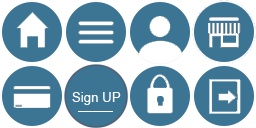
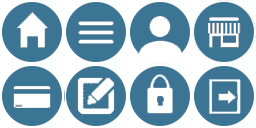
pdf fix

Changed region(s): [[0.25, 0.5, 0.5, 1.0]]

diff --git a/web/view/theme/spg/assets/spg-theme.css b/web/view/theme/spg/assets/spg-theme.css
@@ -104,19 +104,10 @@ body.spg-theme .site-welcome-text {
 
 /** Sub Menu **/
 
-body.spg-theme .submenu-icon {
-    background: url(img/submenu_icons.png) -48px 0 no-repeat;
-    width: 16px;
-    height: 16px;
-    display: inline-block;
-    padding: 0 0;
-    margin: 3px 0 0 3px;
-    float: left;
-    margin-right: 0.5em;
-}
-body.spg-theme .submenu-icon.submenu-icon-list { background-position: -16px 0; } 
-body.spg-theme .submenu-icon.submenu-icon-edit { background-position: -32px 0; } 
-body.spg-theme .submenu-icon.submenu-icon-view { background-position: -48px 0; } 
+body.spg-theme .submenu-icon {/*     background: url(img/submenu_icons.png) -48px 0 no-repeat; */background: url(img/nav_icons.png) 0 0 no-repeat;background-position: top left;background-size: 128px 64px;width: 32px;height: 32px;margin: -4px 6px 0 0px;float: left;}
+body.spg-theme .submenu-icon.submenu-icon-list { background-position: -32px 0; } 
+body.spg-theme .submenu-icon.submenu-icon-edit {background-position: -96px 0;} 
+body.spg-theme .submenu-icon.submenu-icon-view { background-position: -64px 0; } 
 
 
 
@@ -167,6 +158,7 @@ body.layout-vertical.spg-theme .bread-crumbs {
 body.spg-theme nav.page-menu {
     float: left;
     margin: 0em 0.5em 1em 0.1em;
+    /* max-width: 206px; */
 }
 
 body.layout-vertical.spg-theme nav.page-menu {
@@ -266,6 +258,17 @@ body.spg-theme input.button-submit {
 
 body.spg-theme a.button {
     text-decoration: none;
+    padding: 1em;
+    margin: 0 0 0.3em 0;
+    display: block;
+    color: #666;
+    font-size: larger;
+    border-radius: 0.6em;
+    /*     text-align: right; */
+}
+
+body.spg-theme a.button {
+/*     text-decoration: none;
     padding: 0.5em;
     margin: 0 0 0.3em 0;
     display: block;
@@ -281,7 +284,7 @@ body.spg-theme a.button {
     border-bottom: 1px solid #adabab;
     border-left: 1px solid #CCCCCC;
     box-shadow: 2px 2px 4px #CCC;
-    font-size: larger;
+    font-size: larger; */
     /* background-image: url(img/bk/a.button.png); */
 }
 
@@ -290,13 +293,13 @@ body.spg-theme a.button.small {
     font-size: small;
 }
 body.spg-theme a.button.current {
-    background-color: #d4e7ec;
+    background-color: #3b7593;
     font-weight: bold;
-    color: #000000;
+    color: #DDD;
 }
 body.spg-theme a.button:hover {
-    background-color: #bcc5d1;
-    color: #ffffff;
+    background-color: #d4e7ec;
+    /* color: #ffffff; */
 }
 body.spg-theme a.button[disabled] {
     color: gray;

diff --git a/web/user/view/.delete.php b/web/user/view/.delete.php
@@ -18,7 +18,7 @@ $action_url = '/user/index.php?id=' . $User->getID() . '&action=';
             <a href="<?php echo $action_url; ?>delete" class="button current">Delete User<div class="submenu-icon submenu-icon-delete"></div></a>
         <?php } else { ?>
             <a href="user/account.php" class="button">My Account <div class="submenu-icon submenu-icon-view"></div></a>
-            <a href="user/account.php?action=edit" class="button">Edit <div class="submenu-icon submenu-icon-account"></div></a>
+            <a href="user/account.php?action=edit" class="button">Edit <div class="submenu-icon submenu-icon-edit"></div></a>
         <?php } ?>
 
         <a href="order?" class="button">Transactions <div class="submenu-icon submenu-icon-list"></div></a>

diff --git a/web/user/view/.view.php b/web/user/view/.view.php
@@ -25,7 +25,7 @@ $action_url = 'user?id=' . $User->getID() . '&action=';
                 <a href="transaction/charge.php" class="button">Charge<div class="submenu-icon submenu-icon-charge"></div></a>
             <?php } ?>
             <a href="user/account.php" class="button current">My Account <div class="submenu-icon submenu-icon-view"></div></a>
-            <a href="user/account.php?action=edit" class="button">Edit Account <div class="submenu-icon submenu-icon-account"></div></a>
+            <a href="user/account.php?action=edit" class="button">Edit Account <div class="submenu-icon submenu-icon-edit"></div></a>
         <?php } ?>
 
         <?php if($SessionUser->hasAuthority('ROLE_ADMIN')) { ?>

diff --git a/web/transaction/view/.charge.php b/web/transaction/view/.charge.php
@@ -157,7 +157,7 @@ include dirname(dirname(__DIR__)) . '/user/view/.dashboard.nav.php';
                             </td>
                         </tr>
                         <tr class="row-<?php echo ($odd=!$odd)?'odd':'even';?>">
-                            <td class="name">Billing Zipcode</td>
+                            <td class="name">Billing Zip Code</td>
                             <td><input type="text" name="payee_zipcode" value="<?php echo @$LASTPOST['payee_zipcode']; ?>" placeholder="ZipCode" size="7" /></td>
                         </tr>
                         <tr class="row-<?php echo ($odd=!$odd)?'odd':'even';?> required">

diff --git a/web/user/view/.edit.php b/web/user/view/.edit.php
@@ -20,7 +20,7 @@ $action_url = '/user/index.php?id=' . $User->getID() . '&action=';
         <?php } else { ?>
 
             <a href="user/account.php" class="button">My Account <div class="submenu-icon submenu-icon-view"></div></a>
-            <a href="user/account.php?action=edit" class="button">Edit <div class="submenu-icon submenu-icon-account"></div></a>
+            <a href="user/account.php?action=edit" class="button">Edit <div class="submenu-icon submenu-icon-edit"></div></a>
         <?php } ?>
 
             <a href="order?" class="button">Transactions <div class="submenu-icon submenu-icon-list"></div></a>

diff --git a/web/merchant/view/.list.php b/web/merchant/view/.list.php
@@ -54,7 +54,7 @@ include dirname(dirname(__DIR__)) . '/user/view/.dashboard.nav.php';
                             <th><a href="merchant?<?php echo $this->getSortURL(MerchantRow::SORT_BY_NAME); ?>">Name</a></th>
                             <th>URL</th>
                             <th>State</th>
-                            <th>Zipcode</th>
+                            <th>Zip</th>
                             <th>Users</th>
                         </tr>
                         <?php

diff --git a/web/transaction/mail/receiptemail.class.php b/web/transaction/mail/receiptemail.class.php
@@ -73,7 +73,7 @@ HTML;
 
 
 
-        
+
         $this->isHTML(true);
         $this->Body = <<<HTML
 <html>
@@ -97,8 +97,6 @@ If you would like to view your receipt online, please click the following link:<
 
 ____
 {$sig}
-    </body>
-</html>
 TEXT;
 
     }
